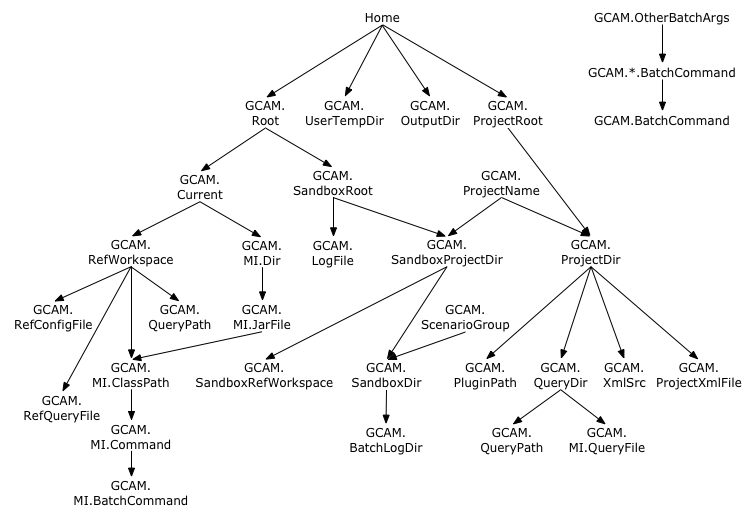
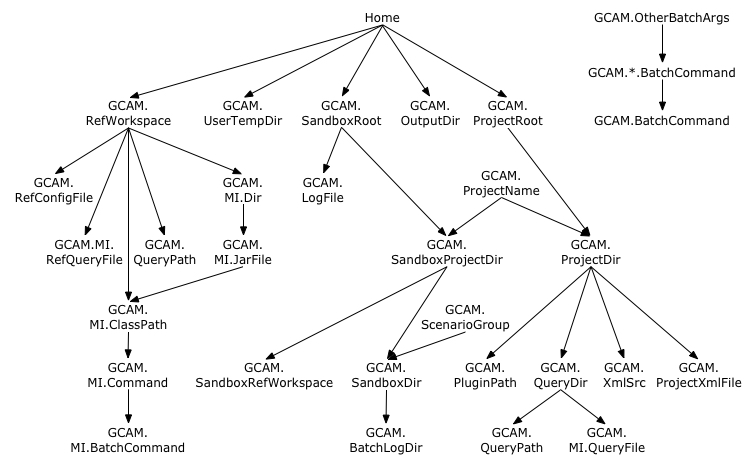
Eliminated GCAM.Current and GCAM.Root, relying instead on GCAM.RefWorkspace. Further refined init subcommand and tutorial files.

diff --git a/pygcam/built_ins/init_plugin.py b/pygcam/built_ins/init_plugin.py
@@ -24,13 +24,23 @@ def defaultSandboxDir(projectRoot):
     return path
 
 Template = '''[DEFAULT]
-GCAM.DefaultProject = {dfltProject}
-GCAM.Root           = {gcamRoot}
-GCAM.ProjectRoot    = {projectRoot}
-GCAM.SandboxRoot    = {sandboxRoot}
+GCAM.DefaultProject  = {dfltProject}
+GCAM.RefWorkspace    = {gcamDir}
+GCAM.ProjectRoot     = {projectRoot}
+GCAM.SandboxRoot     = {sandboxRoot}
+GCAM.RewriteSetsFile = %(GCAM.ProjectDir)s/etc/rewriteSets.xml
 
 [{dfltProject}]
+# Set GCAM.LogLevel to DEBUG for more diagnostic messages 
+# or to WARN, ERROR, or FATAL for progressively less info. 
 GCAM.LogLevel = INFO
+
+# Setup generated config files to not write large extraneous 
+# output files. Move these statements to the [DEFAULT] section 
+# if you want this to be the default for all projects.
+GCAM.WriteDebugFile     = False
+GCAM.WriteXmlOutputFile = False
+
 '''
 
 def findGCAM():
@@ -161,7 +171,7 @@ class InitCommand(SubcommandABC):
 
 
         parser.add_argument('-g', '--gcamDir',
-                            help='''The directory holding a GCAM v4.3 or v4.4
+                            help='''The directory that is a GCAM v4.3 or v4.4
                             workspace. Sets config var GCAM.RefWorkspace. By default,
                             looks for gcam-v4.4 (then v4.3) in ~, ~/GCAM, and ~/gcam, 
                             where "~" indicates your home directory.''')
@@ -200,7 +210,7 @@ class InitCommand(SubcommandABC):
         configPath = pathjoin(home, USR_CONFIG_FILE)
 
         try:
-            dfltProject = args.defaultProject or askString('Default project name?', 'ctax')
+            dfltProject = args.defaultProject or askString('Default project name?', 'tutorial')
             gcamDir     = args.gcamDir or askDir('Where is GCAM installed?',
                                                  default=unixPath(findGCAM() or os.path.expanduser(DefaultGcamDir)))
             projectDir  = args.projectDir or askDir('Directory in which to create pygcam projects?',
@@ -224,7 +234,7 @@ class InitCommand(SubcommandABC):
             return
 
         # initialize configuration file
-        text = Template.format(dfltProject=dfltProject, gcamRoot=gcamDir,
+        text = Template.format(dfltProject=dfltProject, gcamDir=gcamDir,
                                projectRoot=projectDir, sandboxRoot=sandboxDir)
 
         with open(configPath, 'w') as f:

diff --git a/pygcam/built_ins/new_plugin.py b/pygcam/built_ins/new_plugin.py
@@ -63,7 +63,7 @@ def driver(args, tool):
     # Provide example XML files and instructions by extracting these
     # as resources from the pygcam package.
     filesToCopy = ['project.xml', 'protection.xml',  'rewriteSets.xml', 'scenarios.xml',
-                   'tutorial-scenarios.xml', 'tutorial-project.xml', 'Instructions.txt',
+                   'scenarios2.xml', 'project2.xml', 'Instructions.txt',
                    'project-schema.xsd', 'protection-schema.xsd', 'queries-schema.xsd',
                    'rewriteSets-schema.xsd', 'scenarios-schema.xsd']
 

diff --git a/pygcam/XMLFile.py b/pygcam/XMLFile.py
@@ -85,7 +85,7 @@ class XMLFile(object):
         """
         filename = self.filename
 
-        _logger.info("Reading '%s'", filename)
+        _logger.debug("Reading '%s'", filename)
         parser = ET.XMLParser(remove_blank_text=True, remove_comments=self.removeComments)
 
         try:

diff --git a/docs/source/initialize.rst b/docs/source/initialize.rst
@@ -48,9 +48,12 @@ the project will not be created. If you specify neither, you will be asked wheth
 to create the project. If the project directory already exists, you will be asked whether
 to overwrite it.
 
-Note that the :ref:`init <init>`  sub-command creates the project by invoking the
-:ref:`new <new>` sub-command internally. If you choose not to have ``init`` create the
-project structure, you can run ``new`` manually.
+Note that the :ref:`init <init>`  sub-command creates the project structure by invoking the
+:ref:`new <new>` sub-command internally. This creates several directories and copies example
+XML files from the ``pygcam`` distribution. The example files define the "ctax" project, which
+includes a baseline and 4 carbon tax policies. This is intended as a working starting point.
+
+If you choose not to have ``init`` create the project structure, you can run ``new`` manually.
 
 Example
 ---------
@@ -68,13 +71,23 @@ and for the sandboxes were accepted (by hitting return).
  Created /Users/rjp/.pygcam.cfg with contents:
 
  [DEFAULT]
- GCAM.DefaultProject = myproj
- GCAM.Root           = /Users/rjp/GCAM/gcam-v4.3
- GCAM.ProjectRoot    = /Users/rjp/tmp/test/projects
- GCAM.SandboxRoot    = /Users/rjp/tmp/test/sandboxes
+ GCAM.DefaultProject  = myproj
+ GCAM.RefWorkspace    = /Users/rjp/GCAM/gcam-v4.3
+ GCAM.ProjectRoot     = /Users/rjp/tmp/test/projects
+ GCAM.SandboxRoot     = /Users/rjp/tmp/test/sandboxes
+ GCAM.RewriteSetsFile = %(GCAM.ProjectDir)s/etc/rewriteSets.xml
 
  [myproj]
  GCAM.LogLevel = INFO
 
  Create the project structure for "myproj" (Y/n)? y
  Created project "myproj" in /Users/rjp/tmp/test/projects/myproj
+
+Alternatively, you can provide values on the command-line, which can be useful for writing
+your own scripts.
+
+Immediately after running ``gt init`` you can run the baseline and all policy scenarios
+in the example project with the command::
+
+    gt run
+

diff --git a/docs/source/intro.rst b/docs/source/intro.rst
@@ -280,16 +280,16 @@ workspace. On Unix-like systems (and on Windows if
 the user has adequate administrative privileges), the read-only files are symbolically
 linked to the scenario workspace, avoiding copying of many megabytes of data.
 
-To avoid ambiguity between the reference GCAM workspace (i.e., ``Main_User_Workspace``)
+To avoid ambiguity between the reference GCAM workspace (what was previously known
+as ``Main_User_Workspace``)
 and the per-scenario, generated workspaces, we refer to the latter as `sandboxes`, which
 is a computing term that refers to isolation areas in which programs are run to avoid
 interactions with other programs.
 
 The default ``pygcam`` structure assumes there is a directory under which you want all
 sandboxes to be created. This is defined by the config parameter ``GCAM.SandboxRoot``,
-which defaults to ``%(GCAM.Root)s/ws``. ``GCAM.Root`` in turn defaults to
-``%(Home)s/GCAM``, thus the default sandbox root is ``%(Home)s/GCAM/ws``. You can change
-``GCAM.Root`` or ``GCAM.SandboxRoot`` to any desired directory. The sandbox for an
+which defaults to ``%(Home)s/sandbox``. You can change ``GCAM.SandboxRoot`` to any
+desired directory. The sandbox for an
 individual project is defined by ``GCAM.SandboxDir``, which defaults
 to ``%(GCAM.SandboxRoot)s/%(GCAM.ProjectName)s``. Note that ``GCAM.ProjectName`` is
 set at run-time to the name of the project being operated on.

diff --git a/docs/source/config.rst b/docs/source/config.rst
@@ -95,17 +95,17 @@ For example, consider the following values in ``$HOME/.pygcam.cfg``:
 .. code-block:: cfg
 
      [DEFAULT]
-     GCAM.Root = %(Home)s/GCAM
+     GCAM.RefWorkspace = %(Home)s/GCAM/gcam-v4.3
 
      [Project1]
-     GCAM.Root = /other/location/GCAM
+     GCAM.RefWorkspace = /other/location/GCAM/gcam-v4.4
 
      [OtherProject]
-     # no value set here for GCAM.ROOT
+     # no value set here for GCAM.RefWorkspace
 
-The default value for ``GCAM.Root`` is ``%(Home)s/GCAM``. This value is used for the
-project ``OtherProject`` since no project-specific value is defined, but the project
-``Project1`` overrides this with the value ``/other/location/GCAM``.
+The default value for ``GCAM.RefWorkspace`` is ``%(Home)s/GCAM/gcam-v4.3``. This value is
+used for the project ``OtherProject`` since no project-specific value is defined, but the project
+``Project1`` overrides this with the value ``/other/location/GCAM/gcam-v4.4``.
 
 The available parameters and their default values are described below.
 

diff --git a/README.rst b/README.rst
@@ -38,10 +38,15 @@ Version 1.0rc3 (4 Nov 2017)
 -----------------------------
 * Much improved ``init`` sub-command and detection of missing
   configuration file, guiding user to run the ``init`` command.
+  The ``init`` command now sets up the tutorial files by default.
 
 * Configuration defaults are now saved to ~/.pygcam.defaults
   rather than cluttering the ~/.pygcam.cfg configuration file
   with this information.
+
+* Eliminated config vars GCAM.Root and GCAM.Current in favor
+  of GCAM.RefWorkspace. Some users may have to adjust their config
+  files.
 
 Version 1.0rc1 (2 Nov 2017)
 -----------------------------
